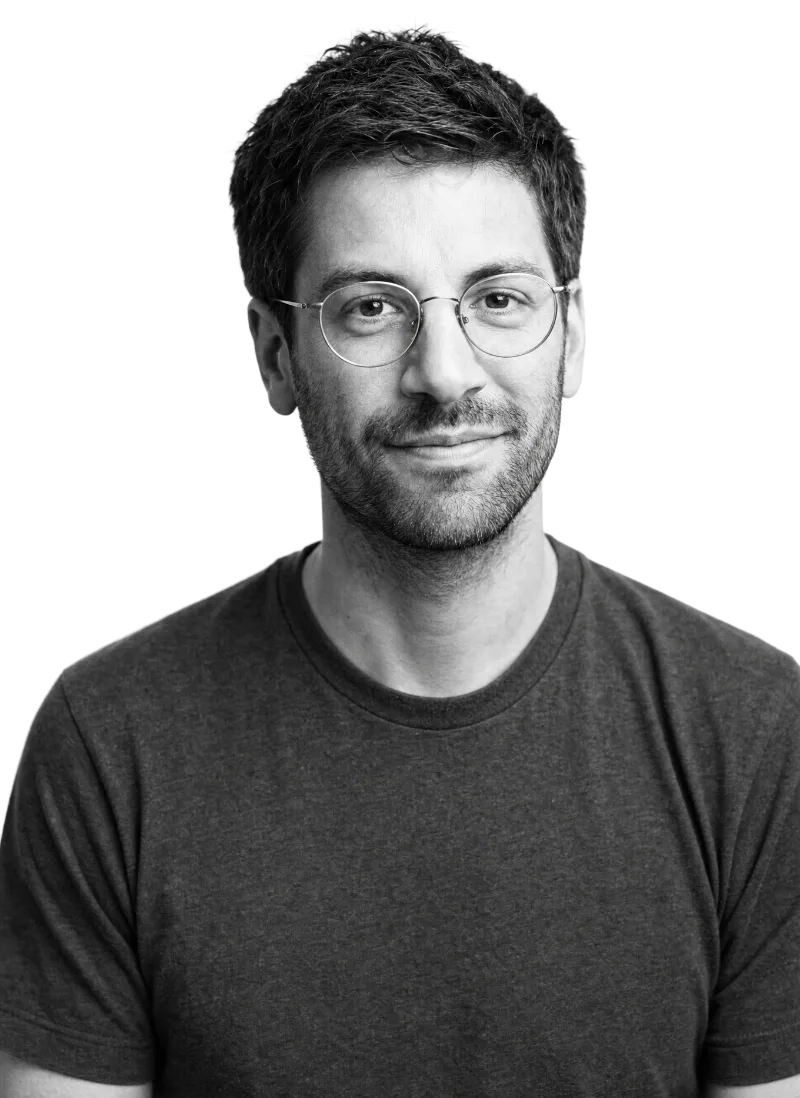
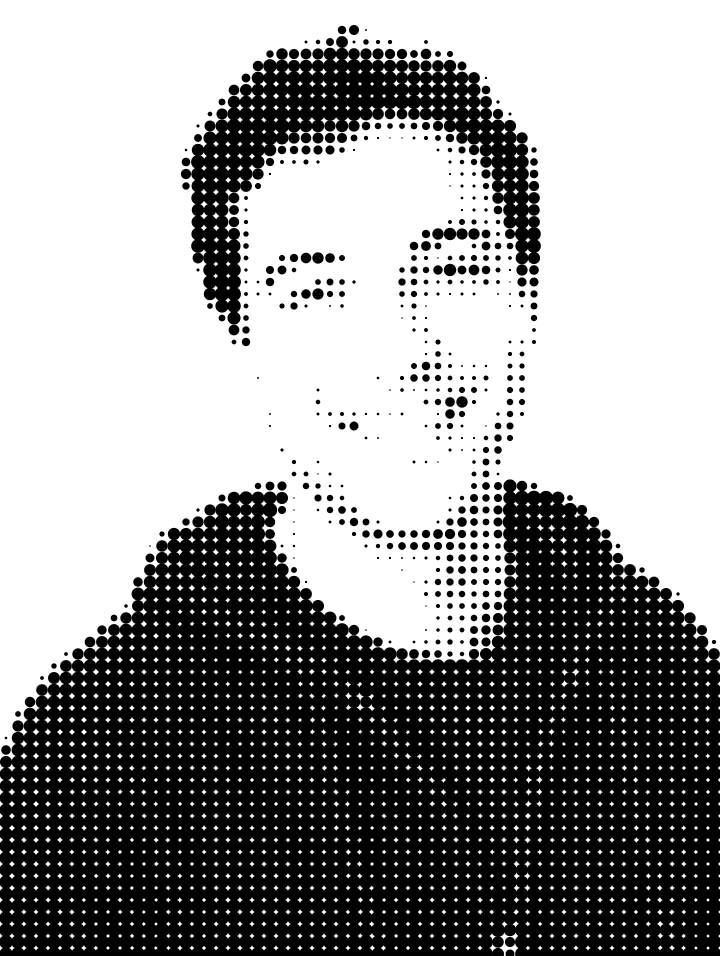
A friendlier character and the halftone duotone portrait
New Higgsfield headshot — cheerful developer in a hoodie — rasterized
into a coarse halftone of pure black dots on transparency (canvas
pipeline, 12px cell). Light mode reads as ink on the page; dark:invert
flips the dots to white so the same file glows on the near-black
canvas. Thumbnail recaptured.

diff --git a/files/resources/views/components/sections/masthead.blade.php b/files/resources/views/components/sections/masthead.blade.php
@@ -6,7 +6,7 @@
     'company' => 'Northwind',
     'location' => 'Portland, Oregon',
     'portrait' => '/images/portrait.webp',
-    'portraitAlt' => 'Black-and-white portrait of Elliot Hayes',
+    'portraitAlt' => 'Halftone black-and-white portrait of Elliot Hayes',
     'showPortrait' => '1',
     'showSocial' => '1',
     'links' => [],
@@ -42,9 +42,9 @@
             </div>
 
             @if ($showPortrait)
-                <!-- The portrait graphic: a background-free cutout whose shoulders fade into the canvas, so it melts into white and near-black alike -->
+                <!-- The portrait graphic: a halftone duotone on transparency whose shoulders fade into the canvas. Pure black dots read as ink in light mode; dark inverts them to white, so one file serves both themes. -->
                 <div data-reveal class="reveal-1 max-lg:order-first lg:justify-self-end">
-                    <img src="{{ $portrait }}" alt="{{ $portraitAlt }}" width="800" height="1098" class="portrait-fade h-auto w-60 sm:w-72 lg:w-88">
+                    <img src="{{ $portrait }}" alt="{{ $portraitAlt }}" width="720" height="956" class="portrait-fade h-auto w-60 dark:invert sm:w-72 lg:w-88">
                 </div>
             @endif
         </div>
